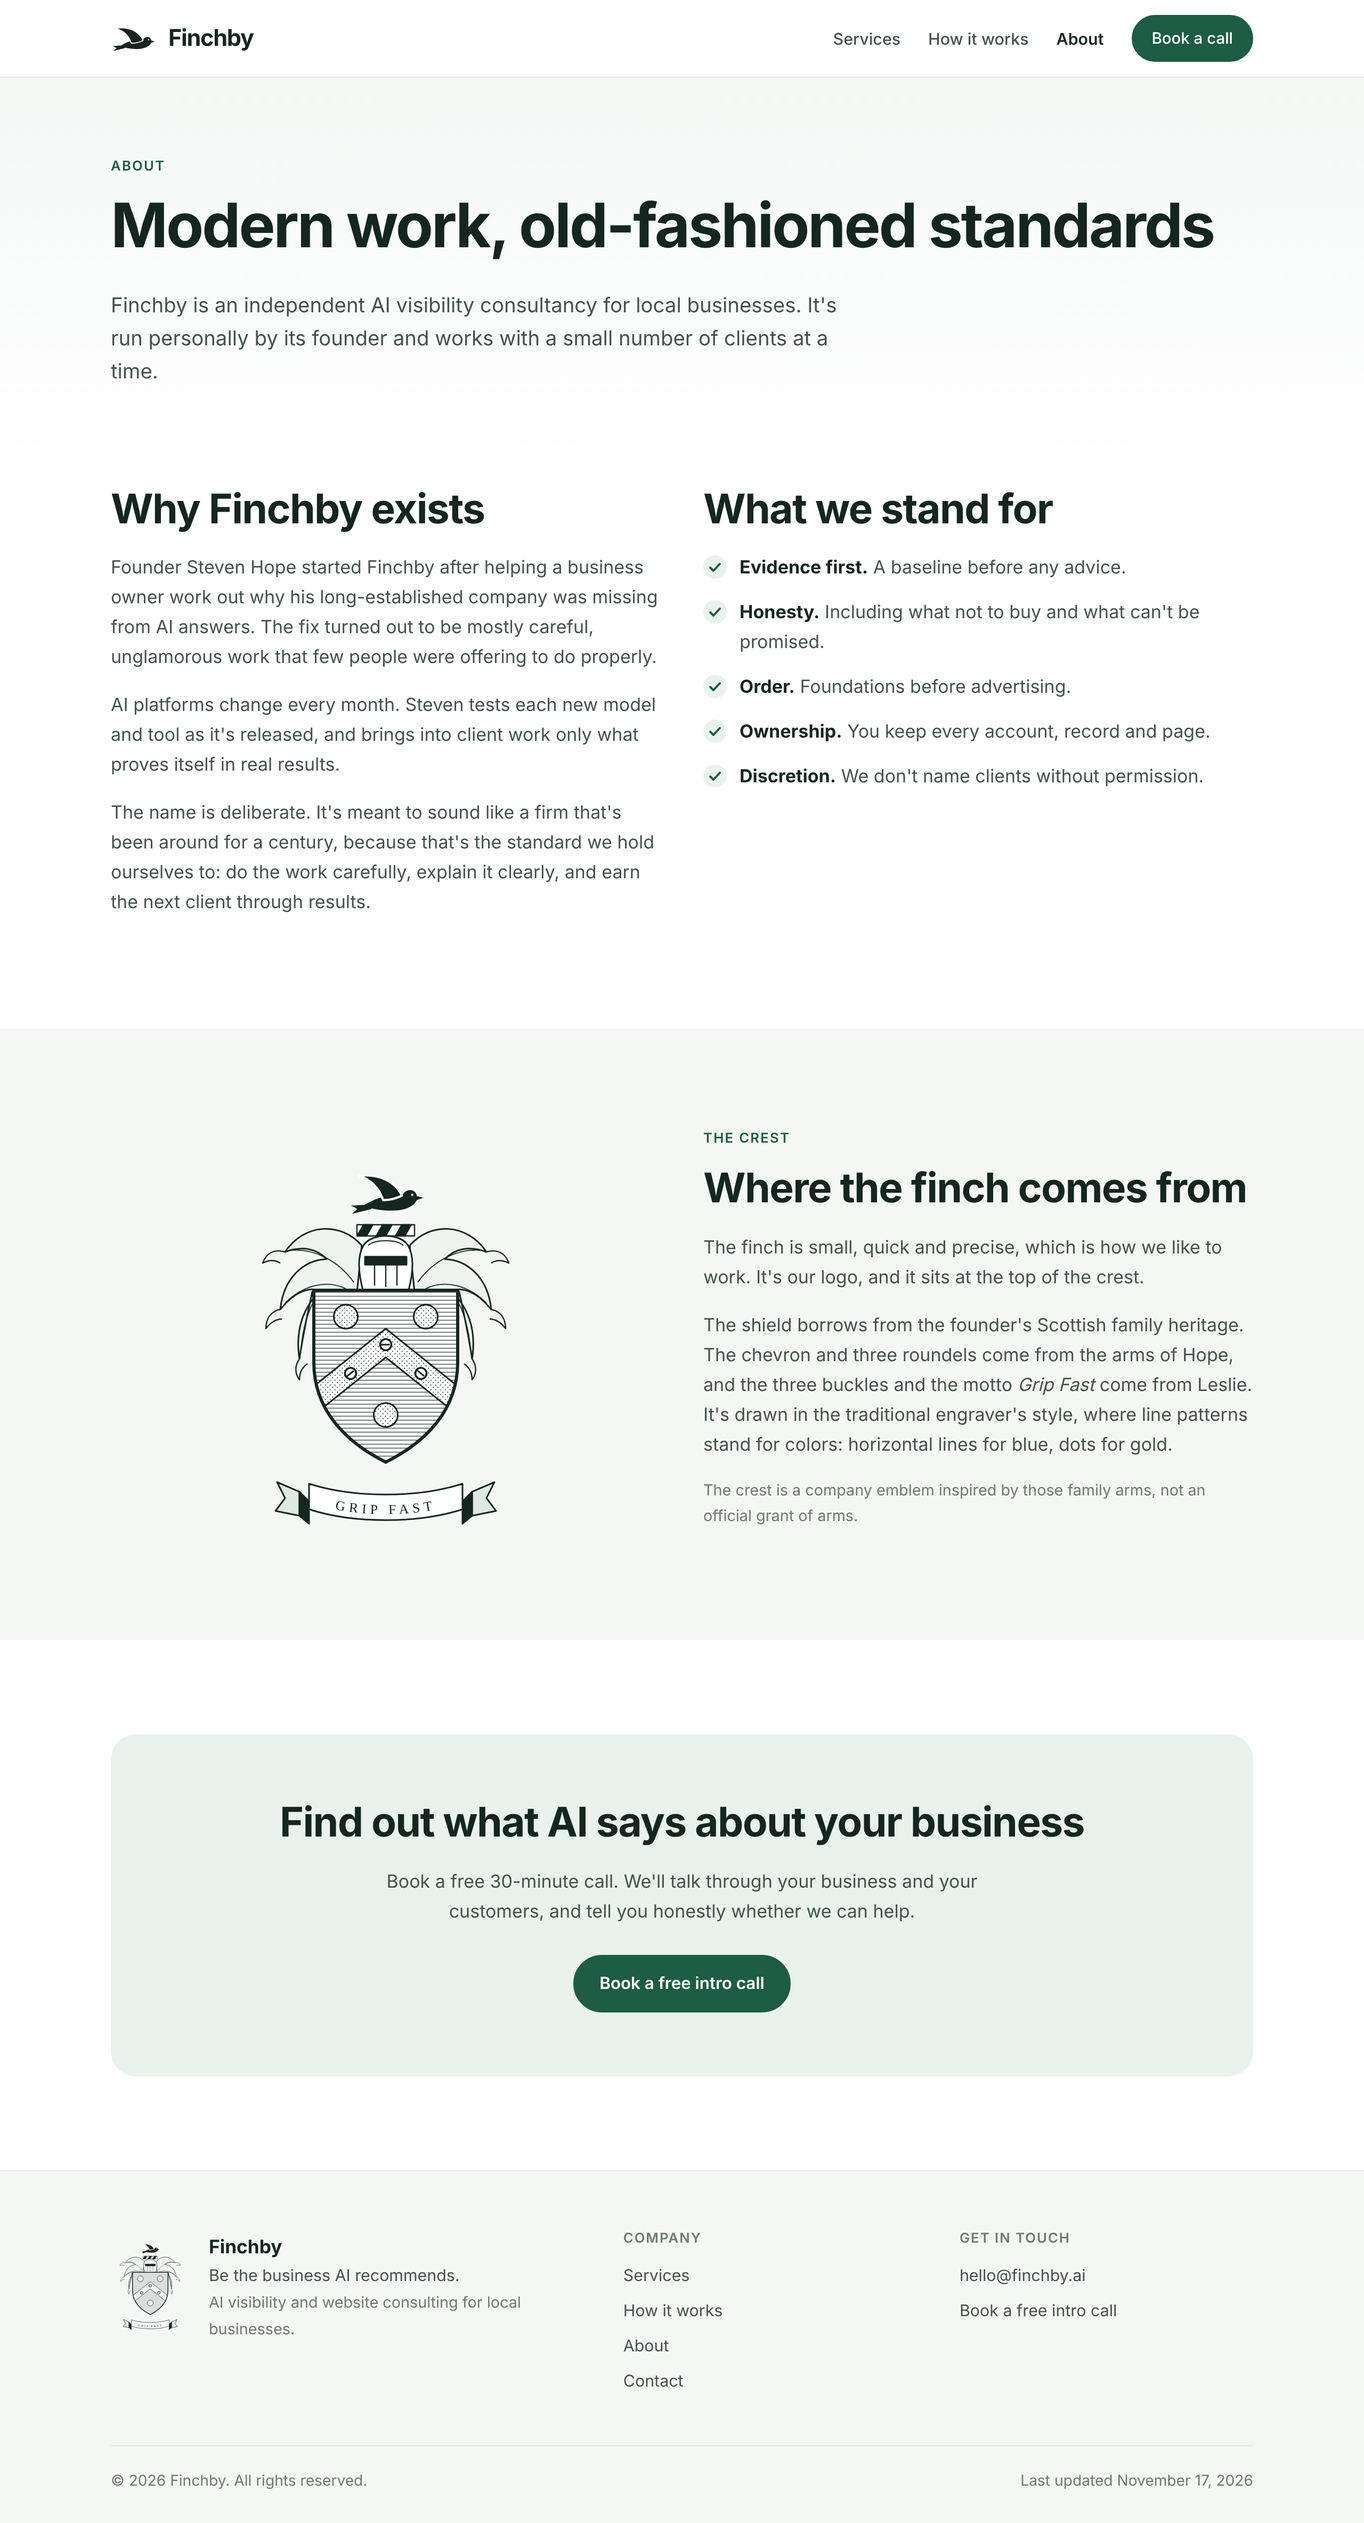
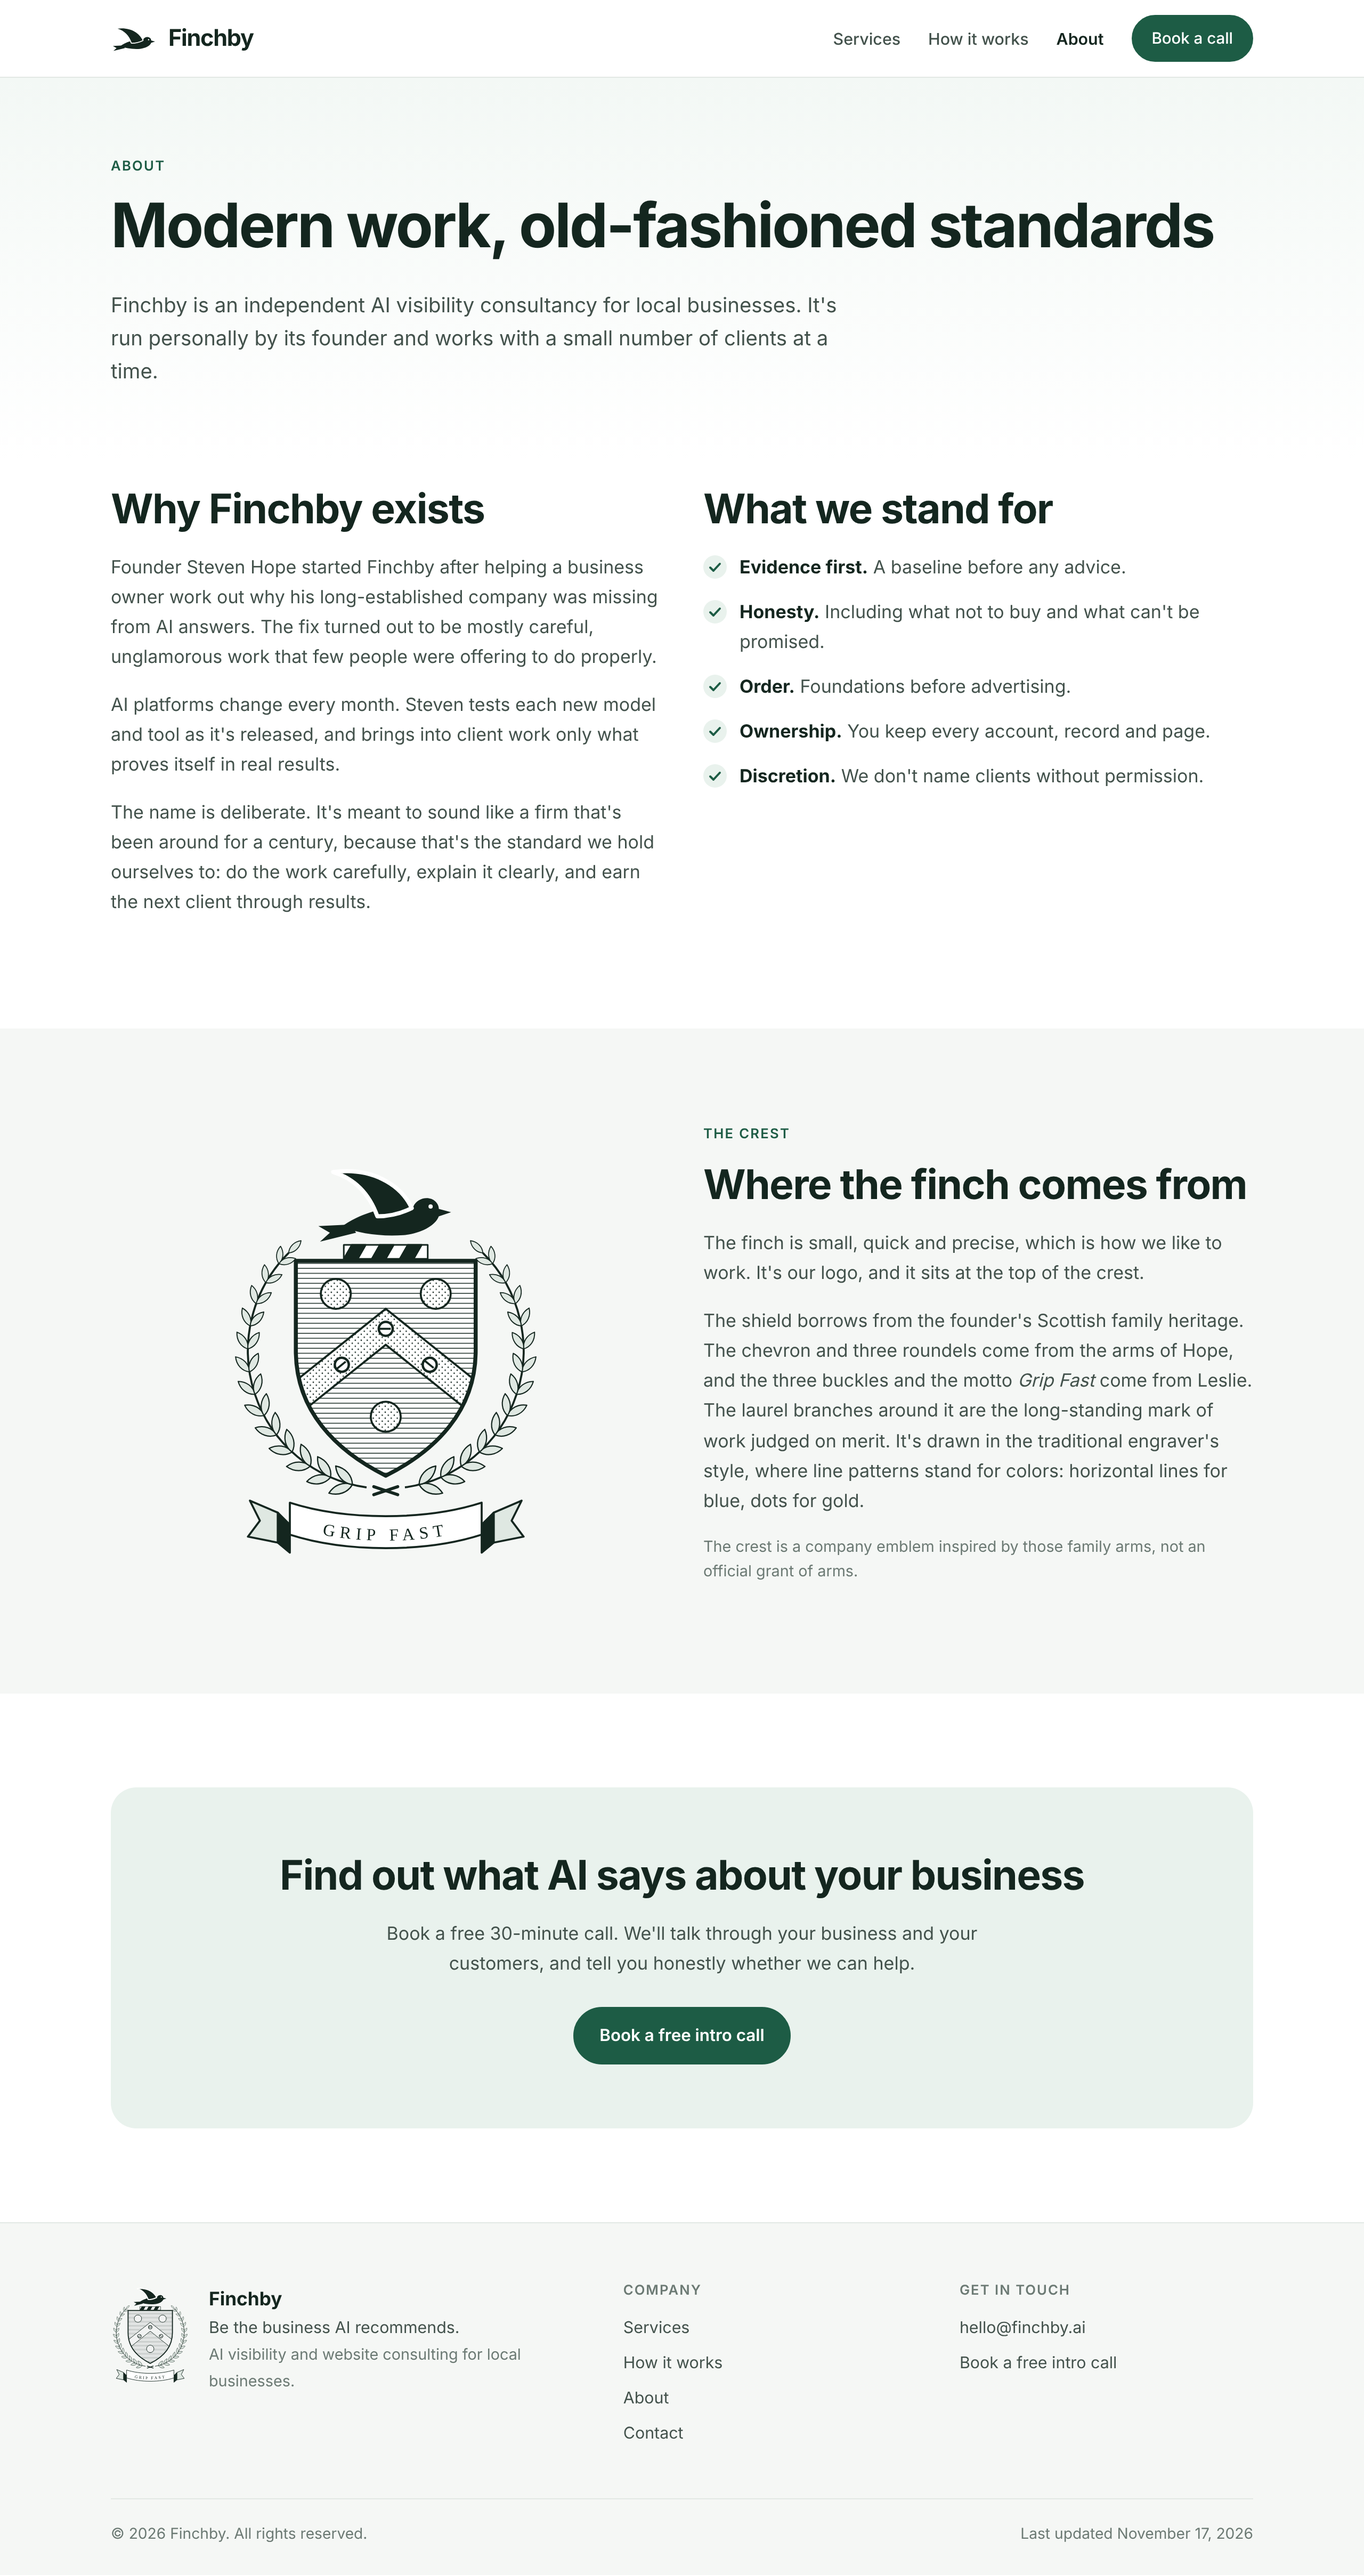
Redraw crest with laurel branches in place of helm and mantling
Claude-Session: https://claude.ai/code/session_01YBLy2LDViKum5DwGeB8fSL

diff --git a/finchby-site/about.html b/finchby-site/about.html
@@ -67,12 +67,12 @@
 <section class="soft">
   <div class="wrap">
     <div class="grid-2" style="align-items:center">
-      <div class="center"><img src="assets/img/crest.svg" alt="The Finchby crest: a shield with a chevron, three buckles and three roundels, topped by a helm and a finch in flight, with the motto Grip Fast" width="300" height="390" style="width:300px"></div>
+      <div class="center"><img src="assets/img/crest.svg" alt="The Finchby crest: a shield with a chevron, three buckles and three roundels, framed by laurel branches, with a finch in flight above and the motto Grip Fast" width="300" height="390" style="width:300px"></div>
       <div>
         <p class="eyebrow">The crest</p>
         <h2>Where the finch comes from</h2>
         <p>The finch is small, quick and precise, which is how we like to work. It's our logo, and it sits at the top of the crest.</p>
-        <p>The shield borrows from the founder's Scottish family heritage. The chevron and three roundels come from the arms of Hope, and the three buckles and the motto <em>Grip Fast</em> come from Leslie. It's drawn in the traditional engraver's style, where line patterns stand for colors: horizontal lines for blue, dots for gold.</p>
+        <p>The shield borrows from the founder's Scottish family heritage. The chevron and three roundels come from the arms of Hope, and the three buckles and the motto <em>Grip Fast</em> come from Leslie. The laurel branches around it are the long-standing mark of work judged on merit. It's drawn in the traditional engraver's style, where line patterns stand for colors: horizontal lines for blue, dots for gold.</p>
         <p class="small">The crest is a company emblem inspired by those family arms, not an official grant of arms.</p>
       </div>
     </div>

diff --git a/finchby-site/build.py b/finchby-site/build.py
@@ -466,12 +466,12 @@ BODY["about.html"] = """
 <section class="soft">
   <div class="wrap">
     <div class="grid-2" style="align-items:center">
-      <div class="center"><img src="assets/img/crest.svg" alt="The Finchby crest: a shield with a chevron, three buckles and three roundels, topped by a helm and a finch in flight, with the motto Grip Fast" width="300" height="390" style="width:300px"></div>
+      <div class="center"><img src="assets/img/crest.svg" alt="The Finchby crest: a shield with a chevron, three buckles and three roundels, framed by laurel branches, with a finch in flight above and the motto Grip Fast" width="300" height="390" style="width:300px"></div>
       <div>
         <p class="eyebrow">The crest</p>
         <h2>Where the finch comes from</h2>
         <p>The finch is small, quick and precise, which is how we like to work. It's our logo, and it sits at the top of the crest.</p>
-        <p>The shield borrows from the founder's Scottish family heritage. The chevron and three roundels come from the arms of Hope, and the three buckles and the motto <em>Grip Fast</em> come from Leslie. It's drawn in the traditional engraver's style, where line patterns stand for colors: horizontal lines for blue, dots for gold.</p>
+        <p>The shield borrows from the founder's Scottish family heritage. The chevron and three roundels come from the arms of Hope, and the three buckles and the motto <em>Grip Fast</em> come from Leslie. The laurel branches around it are the long-standing mark of work judged on merit. It's drawn in the traditional engraver's style, where line patterns stand for colors: horizontal lines for blue, dots for gold.</p>
         <p class="small">The crest is a company emblem inspired by those family arms, not an official grant of arms.</p>
       </div>
     </div>
